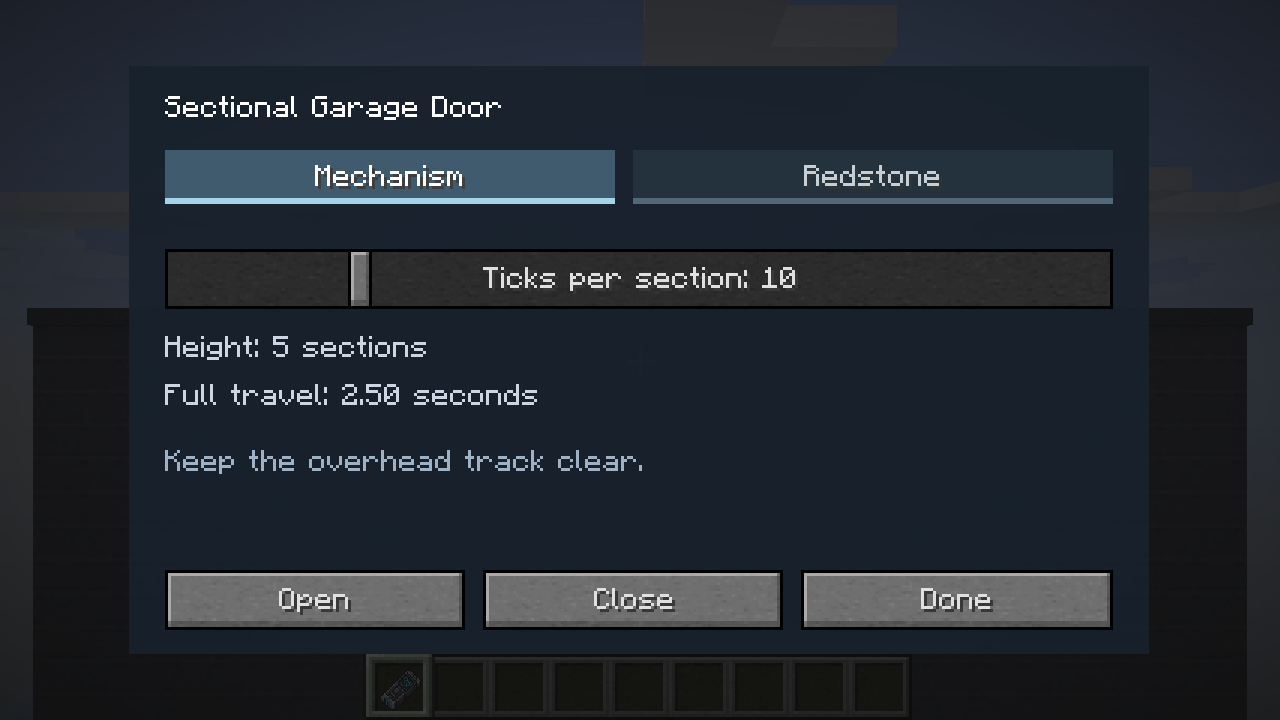
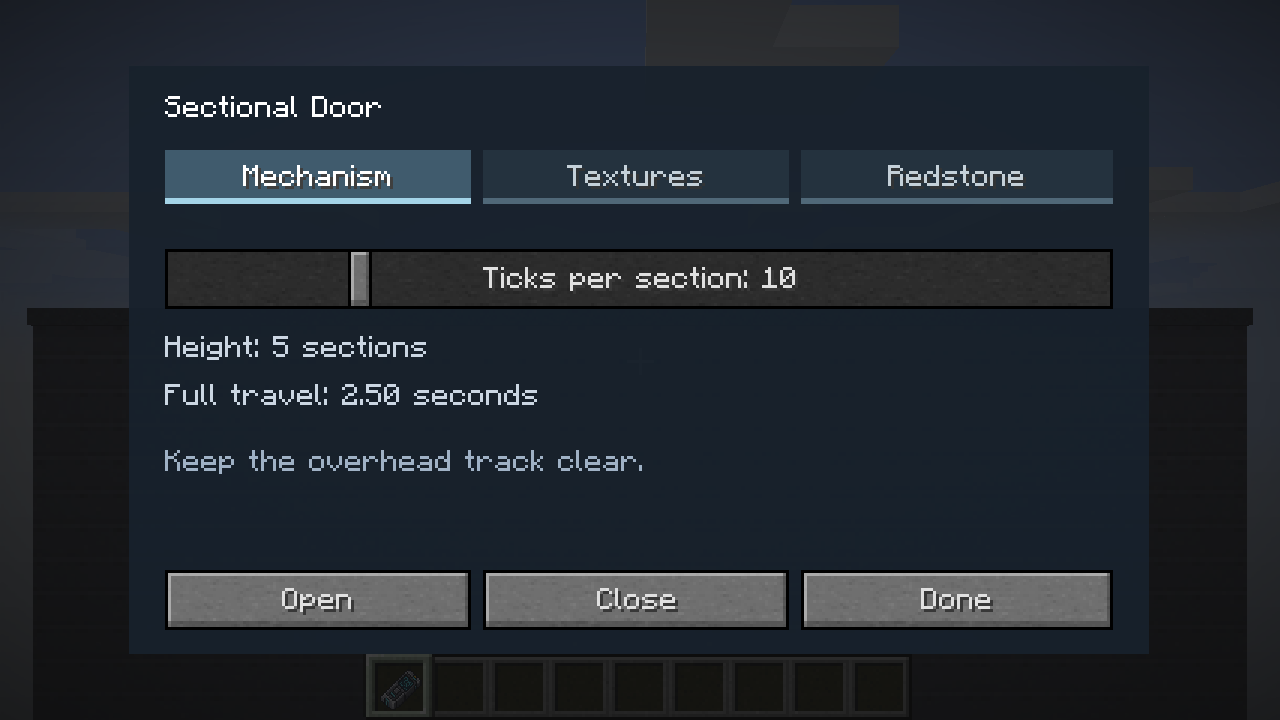
Refresh Sectional Door guide screenshots for renamed dialog and texture tab

diff --git a/docs/sectional-doors.md b/docs/sectional-doors.md
@@ -41,3 +41,5 @@ The server owns collision and the saved motion timeline. Sections remain native 
 ## Panel artwork
 
 Open **Textures** to select general materials, Trapdoors, Doors or Large Doors artwork. Selection applies to every section in the linked door. The original dark slatted panel remains the default; **Industrial → Sectional Panel** and **Sectional Panel Light Grey** expose its two finishes to other programmable blocks too. The original artwork is the standalone `garage/garage_panel.png` texture. Changing artwork preserves the door’s channels, motion and saved section ownership.
+
+![Sectional Door texture selector](images/sectional-texture-settings.png)
